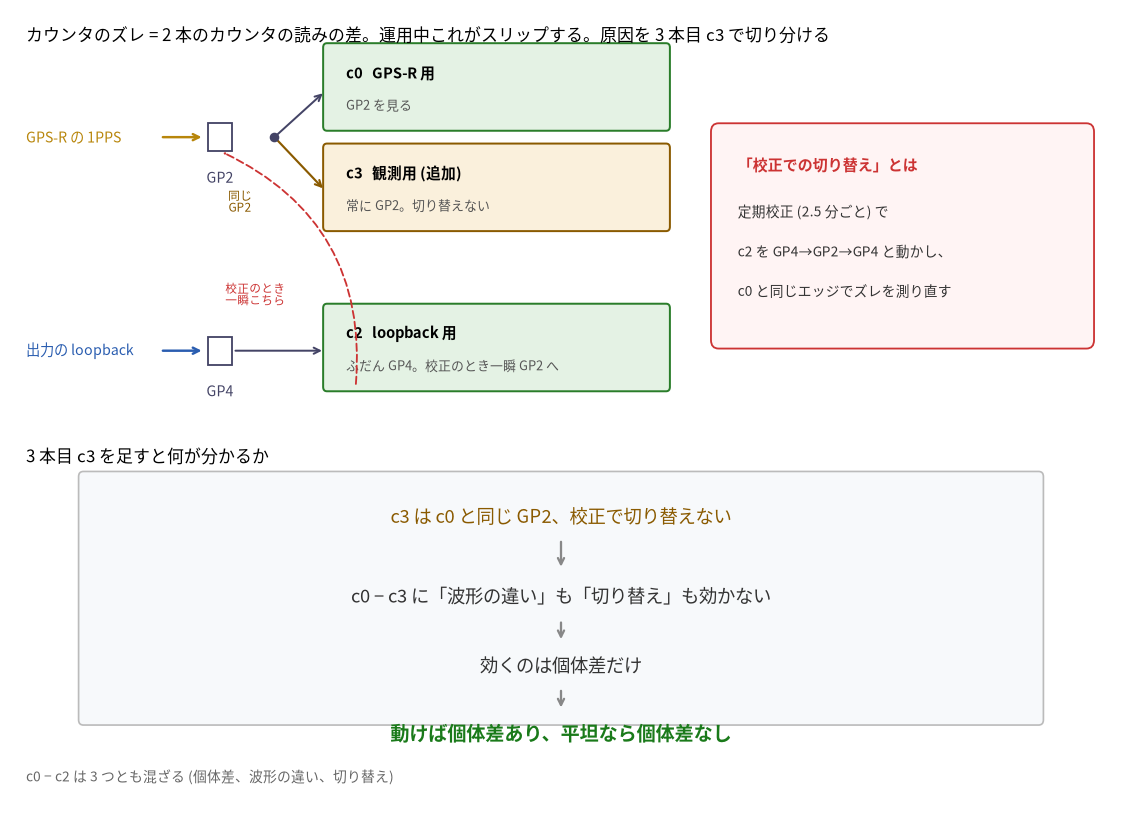
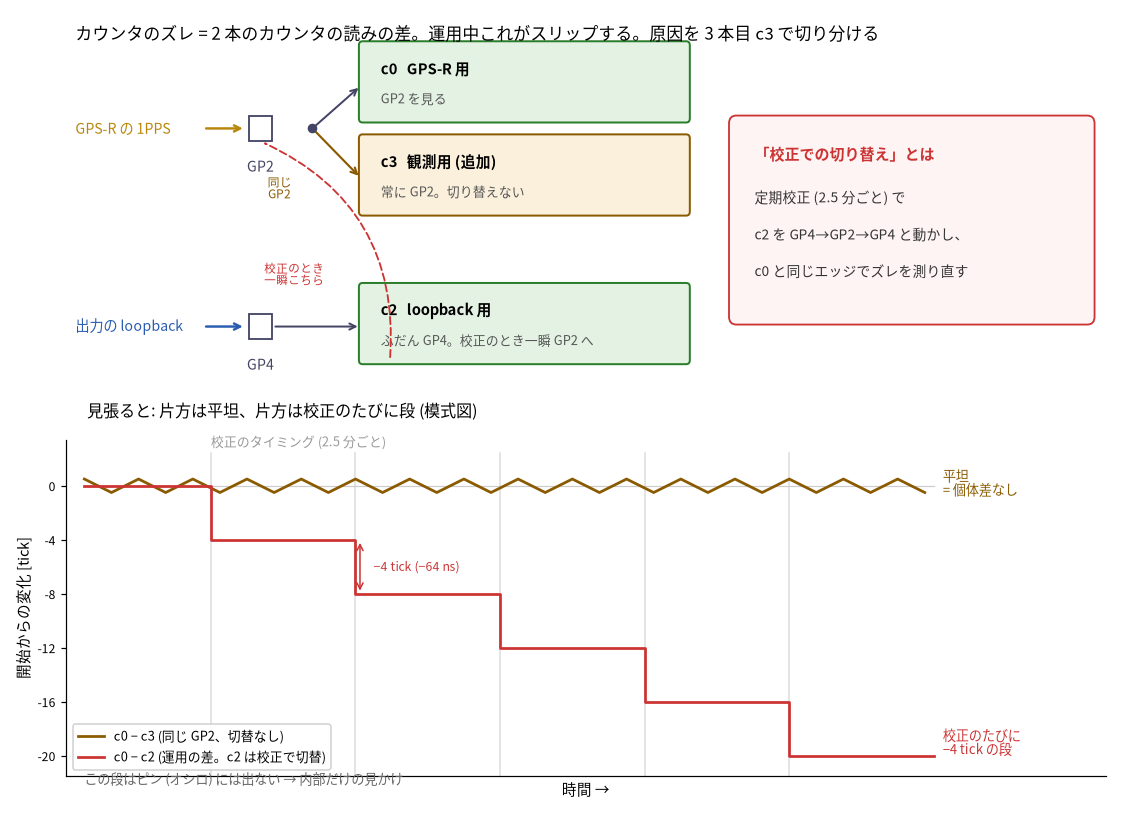
docs(precision): 切り分け図の下段を時系列に — fig-k-offset の絵柄に合わせる
「1 つめの図の下段は前の図の上段のような時系列が良い」への対応:
- 下段の理由の連鎖を、見張った 2 つの差の時間変化 (模式図) に差し替え
- c0−c3 (同じ GP2、切替なし) は平坦=個体差なし、c0−c2 は校正のたびに
  −4 tick の段、この段はピンに出ない、を時間軸で可視化
- 上段の配線と「校正での切り替え」吹き出しは維持

Claude-Session: https://claude.ai/code/session_01QA3SZ4k1hmnnVeG51UZWBZ

diff --git a/docs/report/precision-ladder/README.md b/docs/report/precision-ladder/README.md
@@ -211,7 +211,7 @@ PLL を入れると内部の loopback 位相は 0 付近に寄る。ただ、内
 
 切り分けには観測を 1 本足すのが早い。PIO には捕捉プログラムを走らせられる枠が 1 本余っているので、3 本目のカウンタを GPS-R のピンへ常時向け、既存の 2 本と合わせて 3 つの読みを毎秒すべてログしながら 2.4 時間流す。オシロも並走させて、ピンの上の真値と突き合わせる。同じピンを見る 2 本の差が動けば個体差で、動かなければ残りの 2 つに絞れる。
 
-![まず 3 本目を足して見張る実験。上: 3 本のカウンタと各自が見るピン。c2 は校正のとき一瞬 GP2 へ切り替わる (これが「校正での切り替え」)。下: c3 は c0 と同じ GP2 を見て切り替わらないので、c0 − c3 には波形の違いも切り替えも効かず、残るのは個体差だけ。c0 − c2 は 3 つ全部が混ざる](precision-figs/fig-kexp-setup.png)
+![まず 3 本目を足して見張る実験。上: 3 本のカウンタと各自が見るピン。c2 は校正のとき一瞬 GP2 へ切り替わる (これが「校正での切り替え」)。下: 見張った 2 つの差の時間変化 (模式図)。同じ GP2 を見て切り替わらない c0 − c3 は平坦で個体差なし、c0 − c2 は校正のたびに −4 tick の段。この段はピンには出ない](precision-figs/fig-kexp-setup.png)
 
 この第一歩は、3 本目をただ足して見張るだけだ。狙いどおりに切り分けられた。同じ GP2 を見る c0 − c3 は、2.4 時間ずっと平坦で (傾き 0.000 ns/min、残るは量子化の ±1 tick だけ)、個体差は無罪になった。しかもスリップの本体 c0 − c2 の −4 tick は、オシロで見るピンの上には出ない (2.4 時間平坦、傾き −0.006 ns/min)。ピンに出ないのだから、波形依存のように本物のドリフトが溜まっているのではなく、校正の切り替えが内部の読みにだけ作る見かけだ。実際この −4 tick は毎回ほぼ一定で (56 回中 42 回がぴったり) 温度とも無相関、連続ドリフトではなく校正 1 回ごとの固定量だった。切り替えが作り、次の校正が測り直して自分で打ち消す。こうして犯人は校正の切り替えに絞れた。
 
